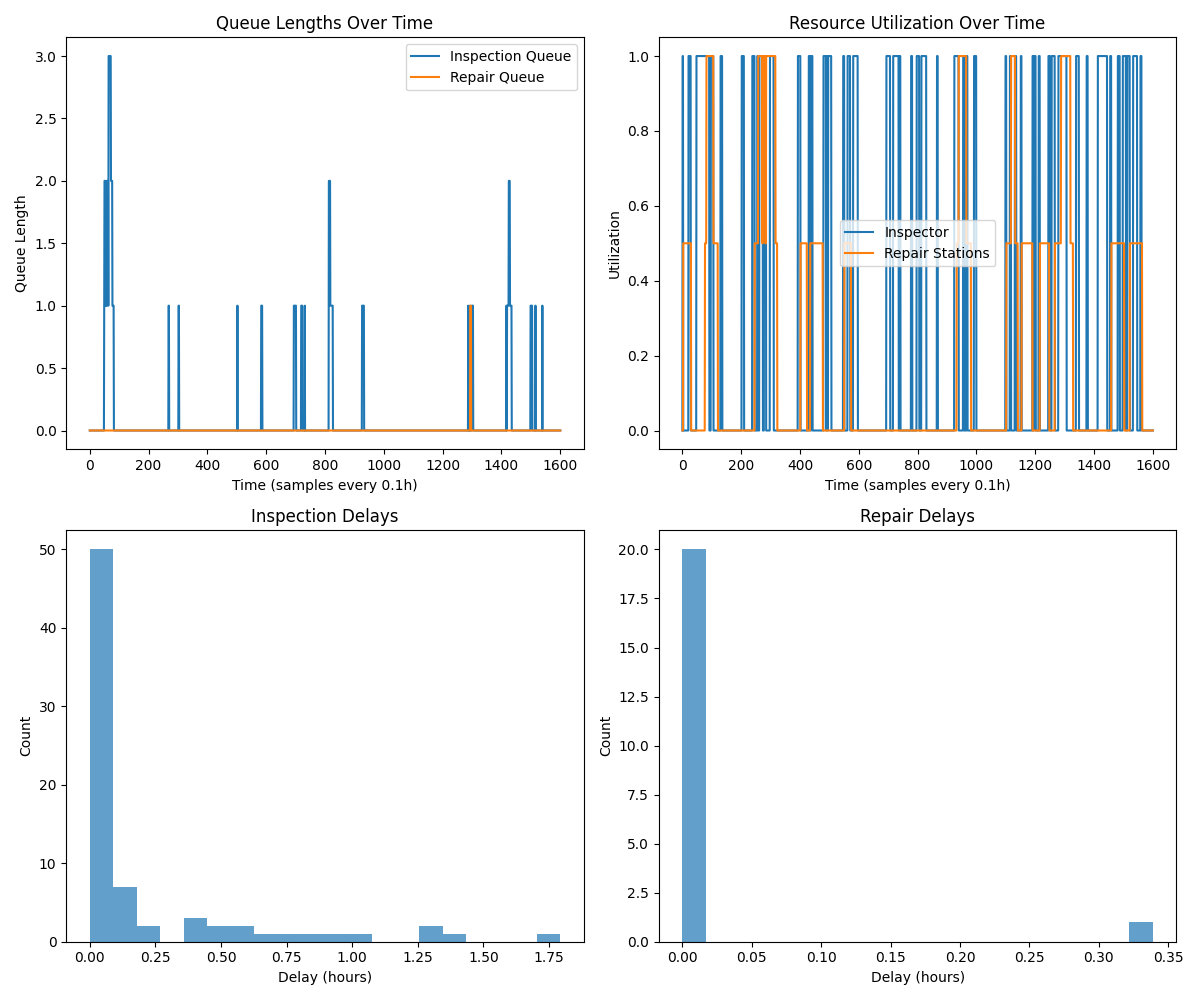
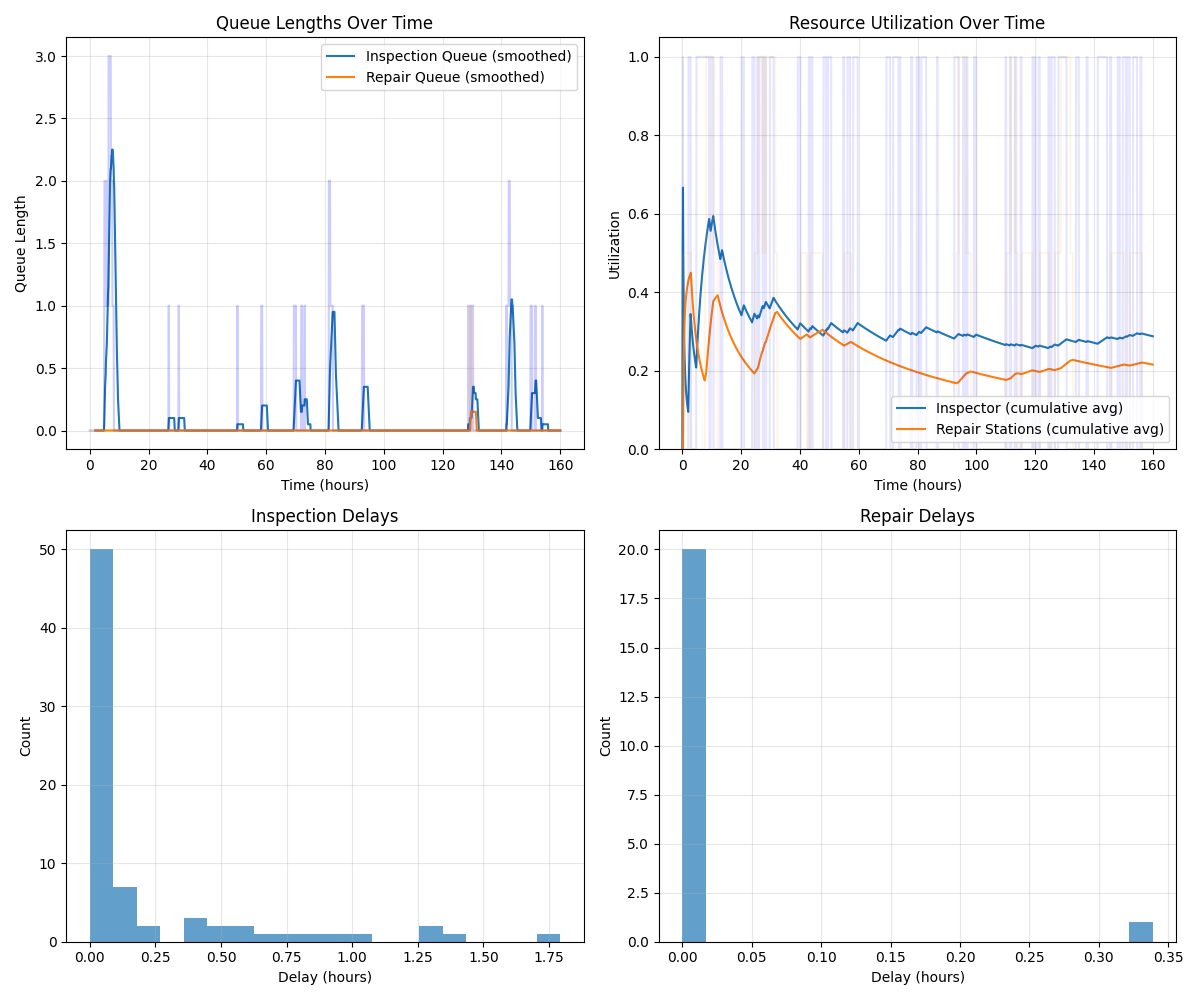
Improv: smoothed graph and more experiment data

diff --git a/src/1_bus_discrete.py b/src/1_bus_discrete.py
@@ -158,20 +158,60 @@ def plot_results(stats, title="Bus Maintenance Simulation Results"):
     """Generate plots for the simulation results"""
     fig, ((ax1, ax2), (ax3, ax4)) = plt.subplots(2, 2, figsize=(12, 10))
     
-    # Queue lengths over time
-    ax1.plot(stats['inspection_queue_lengths'], label='Inspection Queue')
-    ax1.plot(stats['repair_queue_lengths'], label='Repair Queue')
+    # Create time axis for time series plots (in hours)
+    # Use linspace to ensure exact same length as the data arrays
+    queue_length = len(stats['inspection_queue_lengths'])
+    time_points = np.linspace(0, (queue_length-1) * 0.1, queue_length)
+    
+    # Apply moving average smoothing for time series data to improve readability
+    window_size = min(20, queue_length // 5)  # 2-hour window (20 samples at 0.1h each), or smaller if data is limited
+    if window_size < 2:
+        window_size = 2  # Minimum window size
+    
+    def smooth_data(data, window=window_size):
+        if len(data) < window * 2:
+            return data  # Not enough data for meaningful smoothing
+        return np.convolve(data, np.ones(window)/window, mode='valid')
+    
+    # Smooth the queue length data
+    smooth_insp_queue = smooth_data(stats['inspection_queue_lengths'])
+    smooth_repair_queue = smooth_data(stats['repair_queue_lengths'])
+    
+    # Adjust time axis for smoothed data - ensure it matches the smoothed data length
+    smooth_time = time_points[window_size-1:window_size-1+len(smooth_insp_queue)]
+    
+    # Queue lengths over time - using smoothed data
+    ax1.plot(smooth_time, smooth_insp_queue, label='Inspection Queue (smoothed)')
+    ax1.plot(smooth_time, smooth_repair_queue, label='Repair Queue (smoothed)')
+    
+    # Also show the original data with lower opacity for reference
+    ax1.plot(time_points, stats['inspection_queue_lengths'], 'b-', alpha=0.2)
+    ax1.plot(time_points, stats['repair_queue_lengths'], 'orange', alpha=0.2)
     ax1.set_title('Queue Lengths Over Time')
-    ax1.set_xlabel('Time (samples every 0.1h)')
+    ax1.set_xlabel('Time (hours)')
     ax1.set_ylabel('Queue Length')
+    ax1.grid(True, alpha=0.3)
     ax1.legend()
     
-    # Utilization over time
-    ax2.plot(stats['inspection_utilization'], label='Inspector')
-    ax2.plot(stats['repair_utilization'], label='Repair Stations')
+    # Calculate cumulative utilization over time for better interpretation
+    # Use array operations to ensure dimension consistency
+    n_points = len(stats['inspection_utilization'])
+    divisor = np.arange(1, n_points + 1)
+    cum_insp_util = np.cumsum(stats['inspection_utilization']) / divisor
+    cum_repair_util = np.cumsum(stats['repair_utilization']) / divisor
+    
+    # Utilization over time - plot cumulative average
+    ax2.plot(time_points, cum_insp_util, label='Inspector (cumulative avg)')
+    ax2.plot(time_points, cum_repair_util, label='Repair Stations (cumulative avg)')
+    
+    # Show instantaneous utilization with lower opacity
+    ax2.plot(time_points, stats['inspection_utilization'], 'b-', alpha=0.1)
+    ax2.plot(time_points, stats['repair_utilization'], 'orange', alpha=0.1)
     ax2.set_title('Resource Utilization Over Time')
-    ax2.set_xlabel('Time (samples every 0.1h)')
+    ax2.set_xlabel('Time (hours)')
     ax2.set_ylabel('Utilization')
+    ax2.grid(True, alpha=0.3)
+    ax2.set_ylim(0, 1.05)
     ax2.legend()
     
     # Delay histograms
@@ -180,12 +220,14 @@ def plot_results(stats, title="Bus Maintenance Simulation Results"):
         ax3.set_title('Inspection Delays')
         ax3.set_xlabel('Delay (hours)')
         ax3.set_ylabel('Count')
+        ax3.grid(True, alpha=0.3)
     
     if stats['repair_delays']:
         ax4.hist(stats['repair_delays'], bins=20, alpha=0.7)
         ax4.set_title('Repair Delays')
         ax4.set_xlabel('Delay (hours)')
         ax4.set_ylabel('Count')
+        ax4.grid(True, alpha=0.3)
     
     plt.tight_layout()
     plt.savefig('../results/bus_simulation_results.png')
@@ -226,19 +268,105 @@ def run_arrival_rate_experiment(base_config, rates=None):
         result['arrival_rate'] = rate
         results.append(result)
     
-    # Find the maximum stable arrival rate
-    # (where queue lengths and delays don't grow too large)
+    # Determine the maximum stable arrival rate
+    max_stable_rate = None
     for result in results:
         is_stable = (result['avg_inspection_queue_length'] < 10 and 
                     result['avg_repair_queue_length'] < 10)
+        
         print(f"Rate: {result['arrival_rate']:.3f} buses/hour - "
               f"Stable: {is_stable} - "
               f"Insp. util: {result['inspection_utilization']:.2f} - "
               f"Repair util: {result['repair_utilization']:.2f} - "
               f"Insp. queue: {result['avg_inspection_queue_length']:.2f} - "
               f"Repair queue: {result['avg_repair_queue_length']:.2f}")
+        
+        if is_stable and (max_stable_rate is None or result['arrival_rate'] > max_stable_rate['rate']):
+            max_stable_rate = {
+                'rate': result['arrival_rate'],
+                'inspection_util': result['inspection_utilization'],
+                'repair_util': result['repair_utilization'],
+                'inspection_queue': result['avg_inspection_queue_length'],
+                'repair_queue': result['avg_repair_queue_length']
+            }
     
-    return results
+    if max_stable_rate:
+        print(f"\nMaximum stable arrival rate: {max_stable_rate['rate']:.3f} buses/hour")
+        print(f"At maximum stable rate - Inspection utilization: {max_stable_rate['inspection_util']:.2f}, " 
+              f"Repair utilization: {max_stable_rate['repair_util']:.2f}")
+    else:
+        print("\nNo stable arrival rate found in the tested range.")
+    
+    # Plot experiment results
+    plot_experiment_results(results)
+    
+    return results, max_stable_rate
+
+
+def plot_experiment_results(results):
+    """Generate plots to visualize how system performance changes with arrival rate"""
+    rates = [r['arrival_rate'] for r in results]
+    insp_queues = [r['avg_inspection_queue_length'] for r in results]
+    repair_queues = [r['avg_repair_queue_length'] for r in results]
+    insp_delays = [r['avg_inspection_delay'] for r in results]
+    repair_delays = [r['avg_repair_delay'] for r in results]
+    insp_utils = [r['inspection_utilization'] for r in results]
+    repair_utils = [r['repair_utilization'] for r in results]
+    
+    # Sort all data by arrival rate (ascending)
+    sorted_indices = np.argsort(rates)
+    rates = [rates[i] for i in sorted_indices]
+    insp_queues = [insp_queues[i] for i in sorted_indices]
+    repair_queues = [repair_queues[i] for i in sorted_indices]
+    insp_delays = [insp_delays[i] for i in sorted_indices]
+    repair_delays = [repair_delays[i] for i in sorted_indices]
+    insp_utils = [insp_utils[i] for i in sorted_indices]
+    repair_utils = [repair_utils[i] for i in sorted_indices]
+    
+    fig, ((ax1, ax2), (ax3, ax4)) = plt.subplots(2, 2, figsize=(14, 10))
+    
+    # Queue lengths vs arrival rate
+    ax1.plot(rates, insp_queues, 'o-', label='Inspection Queue', linewidth=2)
+    ax1.plot(rates, repair_queues, 's-', label='Repair Queue', linewidth=2)
+    ax1.set_title('Average Queue Length vs Arrival Rate', fontsize=12)
+    ax1.set_xlabel('Arrival Rate (buses/hour)', fontsize=11)
+    ax1.set_ylabel('Average Queue Length', fontsize=11)
+    ax1.grid(True, alpha=0.3)
+    ax1.legend(fontsize=10)
+    
+    # Delays vs arrival rate
+    ax2.plot(rates, insp_delays, 'o-', label='Inspection Delay', linewidth=2)
+    ax2.plot(rates, repair_delays, 's-', label='Repair Delay', linewidth=2)
+    ax2.set_title('Average Delay vs Arrival Rate', fontsize=12)
+    ax2.set_xlabel('Arrival Rate (buses/hour)', fontsize=11)
+    ax2.set_ylabel('Average Delay (hours)', fontsize=11)
+    ax2.grid(True, alpha=0.3)
+    ax2.legend(fontsize=10)
+    
+    # Utilization vs arrival rate
+    ax3.plot(rates, insp_utils, 'o-', label='Inspector', linewidth=2)
+    ax3.plot(rates, repair_utils, 's-', label='Repair Stations', linewidth=2)
+    ax3.set_title('Resource Utilization vs Arrival Rate', fontsize=12)
+    ax3.set_xlabel('Arrival Rate (buses/hour)', fontsize=11)
+    ax3.set_ylabel('Utilization', fontsize=11)
+    ax3.grid(True, alpha=0.3)
+    ax3.set_ylim(0, 1.05)  # Utilization is between 0 and 1
+    ax3.legend(fontsize=10)
+    
+    # System stability threshold visualization
+    queue_threshold = 10
+    ax4.axhline(y=queue_threshold, color='r', linestyle='--', label=f'Stability Threshold ({queue_threshold})', linewidth=2)
+    ax4.plot(rates, insp_queues, 'o-', label='Inspection Queue', linewidth=2)
+    ax4.plot(rates, repair_queues, 's-', label='Repair Queue', linewidth=2)
+    ax4.set_title('System Stability Analysis', fontsize=12)
+    ax4.set_xlabel('Arrival Rate (buses/hour)', fontsize=11)
+    ax4.set_ylabel('Average Queue Length', fontsize=11)
+    ax4.grid(True, alpha=0.3)
+    ax4.legend(fontsize=10)
+    
+    plt.tight_layout()
+    plt.savefig('../results/arrival_rate_experiment.png')
+    plt.close()
 
 
 def main():
@@ -258,9 +386,13 @@ def main():
         config.simulation_time = args.time
     if args.seed:
         config.seed = args.seed
-    
     if args.experiment:
-        results = run_arrival_rate_experiment(config)
+        print("Running arrival rate experiment to find capacity limits...")
+        results, max_stable_rate = run_arrival_rate_experiment(config)
+        if max_stable_rate:
+            print("\nExperiment Results Summary:")
+            print(f"Maximum stable arrival rate: {max_stable_rate['rate']:.3f} buses/hour")
+            print(f"(equivalent to mean interarrival time: {1/max_stable_rate['rate']:.3f} hours)")
     else:
         # Run simulation with the specified configuration
         print(f"Running simulation for {config.simulation_time} hours...")
